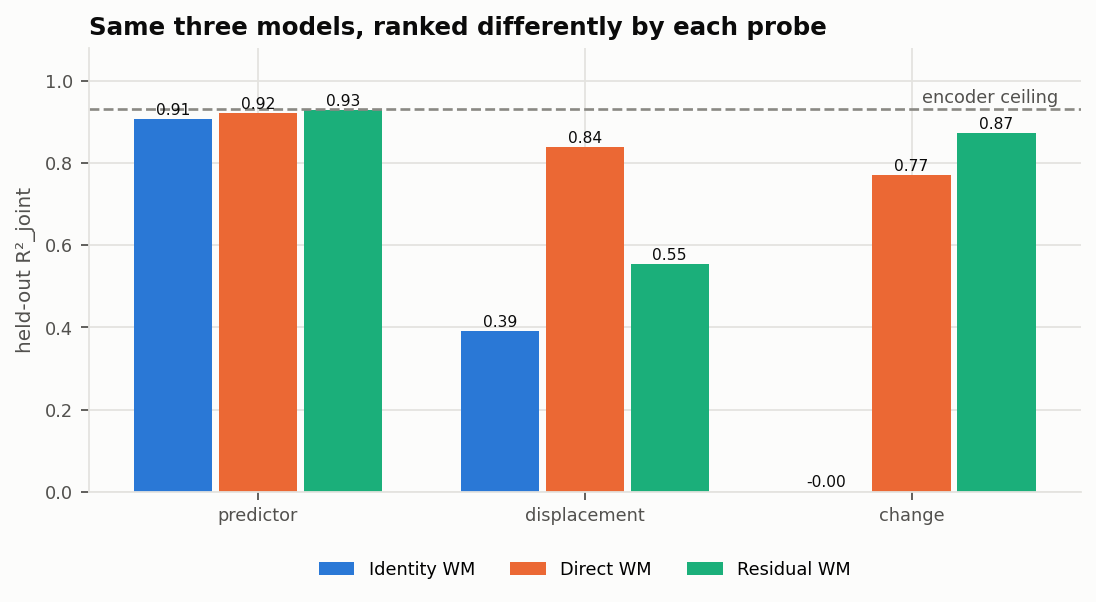
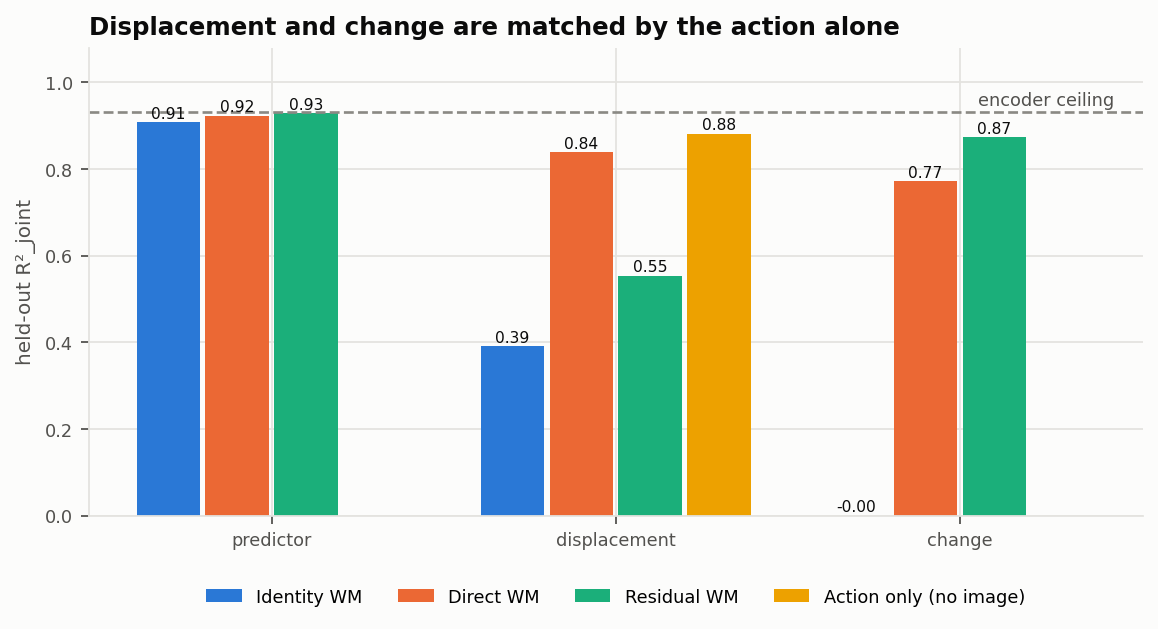
docs: correct displacement-probe claims with action-only control — #1
The first strict-JEPA smoke run collapsed yet scored 0.88 on the
displacement probe; a one-hot of the action alone also scores 0.88.
Phase 1 notebook and devlog now report the control and retract the
"learned dynamics" reading.

Changed region(s): [[0.0, 0.1196, 0.9927, 0.8671], [0.1551, 0.9269, 0.8996, 0.9568], [0.062, 0.0299, 0.7755, 0.0598]]

diff --git a/notebooks/build_phase1.py b/notebooks/build_phase1.py
@@ -34,7 +34,9 @@ cells = [
         "import pandas as pd\n\n"
         "from snekwm.data.collect import load_episode\n"
         "from snekwm.env.simulator import ACTIONS\n"
-        "from snekwm.eval import style\n\n"
+        "from snekwm.eval import style\n"
+        "from snekwm.eval.probe import fit_probe\n"
+        "from snekwm.experiments.common import load_split\n\n"
         "style.apply()\n"
         "ROOT = Path.cwd().parent if Path.cwd().name == 'notebooks' else Path.cwd()\n"
         "RESULTS, FIGS = ROOT / 'results', ROOT / 'notebooks' / 'figures'\n"
@@ -92,6 +94,23 @@ cells = [
         "}}\n"
         "for label, run in runs.items():\n"
         "    rows[label] = {k: v['r2_joint'] for k, v in load(run, 'probe.json').items()}\n"
+        "\n"
+        "# Control: how much of the displacement can be read off the action alone?\n"
+        "eps, train_names, val_names = load_split(ROOT / 'data/episodes', 0.2, 0)\n"
+        "\n"
+        "\n"
+        "def action_xy(names):\n"
+        '    """One-hot action -> head displacement, alive transitions only."""\n'
+        "    xs, ys = [], []\n"
+        "    for n in names:\n"
+        "        e, m = eps[n], eps[n]['alive'][1:]\n"
+        "        xs.append(np.eye(5)[e['actions']][m])\n"
+        "        ys.append((e['heads'][1:] - e['heads'][:-1])[m])\n"
+        "    return np.concatenate(xs).astype(float), np.concatenate(ys).astype(float)\n"
+        "\n"
+        "\n"
+        "action_only = fit_probe(*action_xy(train_names), *action_xy(val_names)).r2_joint\n"
+        "rows['Action only (no image)'] = {'displacement': action_only}\n"
         "probes = pd.DataFrame(rows).T[['predictor', 'displacement', 'change']]\n"
         "print(f\"Frozen DINOv2 encoder probe (ceiling): {frozen['encoder']['r2_joint']:.3f}\")\n"
         "probes.round(3)"
@@ -100,13 +119,16 @@ cells = [
         "metrics = ['predictor', 'displacement', 'change']\n"
         "models = list(probes.index)\n"
         "x = np.arange(len(metrics))\n"
-        "width = 0.26\n"
-        "fig, ax = plt.subplots(figsize=(8, 3.6))\n"
+        "width = 0.2\n"
+        "fig, ax = plt.subplots(figsize=(8.5, 3.8))\n"
         "for i, model in enumerate(models):\n"
-        "    vals = probes.loc[model, metrics].to_numpy()\n"
-        "    bars = ax.bar(x + (i - 1) * width, vals, width * 0.92, color=style.SERIES[i],\n"
-        "                  label=model)\n"
+        "    vals = probes.loc[model, metrics].to_numpy(dtype=float)\n"
+        "    offset = (i - (len(models) - 1) / 2) * width\n"
+        "    bars = ax.bar(x + offset, np.nan_to_num(vals), width * 0.92,\n"
+        "                  color=style.SERIES[i], label=model)\n"
         "    for b, v in zip(bars, vals, strict=True):\n"
+        "        if np.isnan(v):\n"
+        "            continue\n"
         "        ax.annotate(f'{v:.2f}', (b.get_x() + b.get_width() / 2, max(v, 0)),\n"
         "                    textcoords='offset points', xytext=(0, 2), ha='center',\n"
         "                    fontsize=7, color=style.TEXT)\n"
@@ -117,8 +139,8 @@ cells = [
         "ax.set_xticks(x, metrics)\n"
         "ax.set_ylim(0, 1.08)\n"
         "ax.set_ylabel('held-out R²_joint')\n"
-        "ax.set_title('Same three models, ranked differently by each probe', loc='left')\n"
-        "ax.legend(ncols=3, loc='upper center', bbox_to_anchor=(0.5, -0.12))\n"
+        "ax.set_title('Displacement and change are matched by the action alone', loc='left')\n"
+        "ax.legend(ncols=4, loc='upper center', bbox_to_anchor=(0.5, -0.12))\n"
         "fig.savefig(FIGS / 'phase1_probes.png')\n"
         "plt.show()"
     ),
@@ -159,14 +181,20 @@ cells = [
         "2. **The original predictor probe is saturated.** The identity WM, which knows "
         "nothing about dynamics, already scores about 0.91, because the head moves at "
         "most one cell per step. It can't rank world models.\n"
-        "3. **MSE and dynamics disagree.** The direct WM never beats copy-the-input on "
-        "MSE (as in the original), yet its displacement probe roughly doubles over "
-        "identity. It learned the dynamics; it pays MSE re-synthesising ~250 static "
-        "patches.\n"
-        "4. **The pooled probe hides the residual model's dynamics.** Its displacement "
-        "score is low, but probing the predicted *change* ranks it first. The change is "
-        "small next to `z_t`, so mean-pooling drowns it. The change probe has a true "
-        "zero floor and is the dynamics metric used from Phase 2 on.\n\n"
+        "3. **Only the residual WM beats copying the input on MSE.** The direct WM "
+        "never does (as in the original): it must re-synthesise about 250 near-static "
+        "patches and pays a small error on each.\n"
+        "4. **Correction: the displacement and change probes measure the action, not "
+        "the dynamics.** I first read the direct WM's displacement score (0.84 vs 0.39 "
+        "for identity) as evidence that it learned dynamics. The **action-only control** "
+        "(a one-hot of the action, with no image) reaches about 0.88, because actions "
+        "are absolute directions, so Δhead ≈ action. A predictor can score well by "
+        "passing its action token through. Neither world model beats that control. A "
+        "collapsed JEPA (Phase 2) scores 0.88 too.\n"
+        "5. **What a fair dynamics test needs:** decode the *predicted* latent with a "
+        "probe fitted only on *real* encodings (probe transfer). Then passing the action "
+        "through doesn't help unless the prediction lands where the true next frame's "
+        "encoding would be.\n\n"
         "Details, failures and reasoning: [`docs/devlog.md`](../docs/devlog.md)."
     ),
 ]

diff --git a/docs/devlog.md b/docs/devlog.md
@@ -283,3 +283,53 @@ results are unaffected (seeded), but it matters for any wall-clock comparison.
 **Observation.** Re-running the same seeded config gives train loss 0.6398 vs 0.6406 at
 epoch 2: **cuDNN/bf16 non-determinism**. The probes agree to about 0.001. I report results to
 3 d.p. and don't claim bit-reproducibility.
+
+---
+
+## ⚠ Correction — the displacement and change probes measure the *action*, not dynamics
+
+**How it surfaced.** The first JEPA smoke run (strict-JEPA baseline, slice 5)
+**collapsed**: invariance loss went to ~0, per-dimension std to ~0.05, and the rank
+ratio to 0.39, so the kill-switch fired at epoch 2. Yet its predictions scored
+**0.88 displacement / 0.86 change**. A collapsed model can't know the dynamics, so
+the metric had to be wrong.
+
+**Control.** Ridge from a one-hot of the action (no image at all) to Δhead: **R² = 0.881**
+(0.926 with heading features). Actions are *absolute directions*, so Δhead equals
+the action on every step except KEEP or a reverse. A predictor scores well on
+displacement/change just by passing its action token through to the output.
+
+| | displacement | change |
+|---|---|---|
+| Identity WM | 0.391 | 0.000 |
+| DINOv2-WM direct | 0.838 | 0.771 |
+| DINOv2-WM residual | 0.553 | 0.873 |
+| **Action one-hot, no image** | **0.881** | (same target) |
+| Collapsed strict-JEPA | 0.876 | 0.864 |
+
+**What I got wrong, and what still stands.**
+- ✗ Slice 3b/4 "the direct WM clearly learned action-conditioned dynamics": **not
+  supported**. Neither WM beats the action-only control.
+- ✗ "The change probe is the right dynamics metric": a zero floor for the identity WM
+  isn't enough. It also needs to be immune to action passthrough, and it isn't.
+- ✓ The encoder ceiling (0.932), identity-floor saturation of the original predictor
+  probe (0.907), and the MSE results (only the residual WM beats identity) are
+  unaffected.
+- ✓ The mean-pooling-scale observation (Δ-probe vs pooled probe) is still a real
+  readout effect. It just doesn't show *dynamics*.
+
+**Fix proposed: probe transfer.** Fit the head probe on **real encodings only**
+(`z_t → head_t`), freeze it, and apply it to **predicted** latents `ẑ_{t+1}`. Passing
+the action through doesn't help unless the prediction lands where the *true* next
+frame's encoding lies. Floors: identity WM ≈ "copy current head"; the ceiling is the
+encoder probe. Extending it to open-loop k-step rollouts separates them further.
+
+**Lesson (the big one).** Every probe needs *two* controls: a floor for "knows nothing
+about the state" (identity) **and** a floor for "knows only the input it was given"
+(action-only). I had the first and not the second, so I confidently misread a 0.84.
+The collapsed model was the anomaly that exposed it. **Always run the degenerate
+model through the metric.**
+
+**Talking point.** "My metric said a collapsed model understood the dynamics. That's
+impossible, so I built an action-only control, found that the metric was reading the
+action through the predictor, and replaced it with probe transfer."

diff --git a/results/jepa/baseline/summary.md b/results/jepa/baseline/summary.md
@@ -1,0 +1,20 @@
+# results/jepa/baseline
+
+encoder=small_vit, projector=False, beta=0.0, momentum=0.996, use_action=True, epochs=5
+
+**COLLAPSE** — rank ratio 0.389 fell below 0.5 at epoch 2; training stopped.
+
+## Linear probes (held-out R²_joint)
+
+| Model | encoder | predictor | displacement | change |
+|---|---|---|---|---|
+| results/jepa/baseline | 0.382 | 0.245 | 0.876 | 0.864 |
+
+## Training
+
+| Epoch | train loss | invariance | variance | covariance | val loss | rank ratio |
+|---|---|---|---|---|---|---|
+| epoch 1 | 0.017 | 0.001 | 0.953 | 0.001 | 0.000 | 0.847 |
+| epoch 2 | 0.000 | 0.000 | 0.893 | 0.055 | 0.000 | 0.389 |
+
+![training curves](curves.png)
